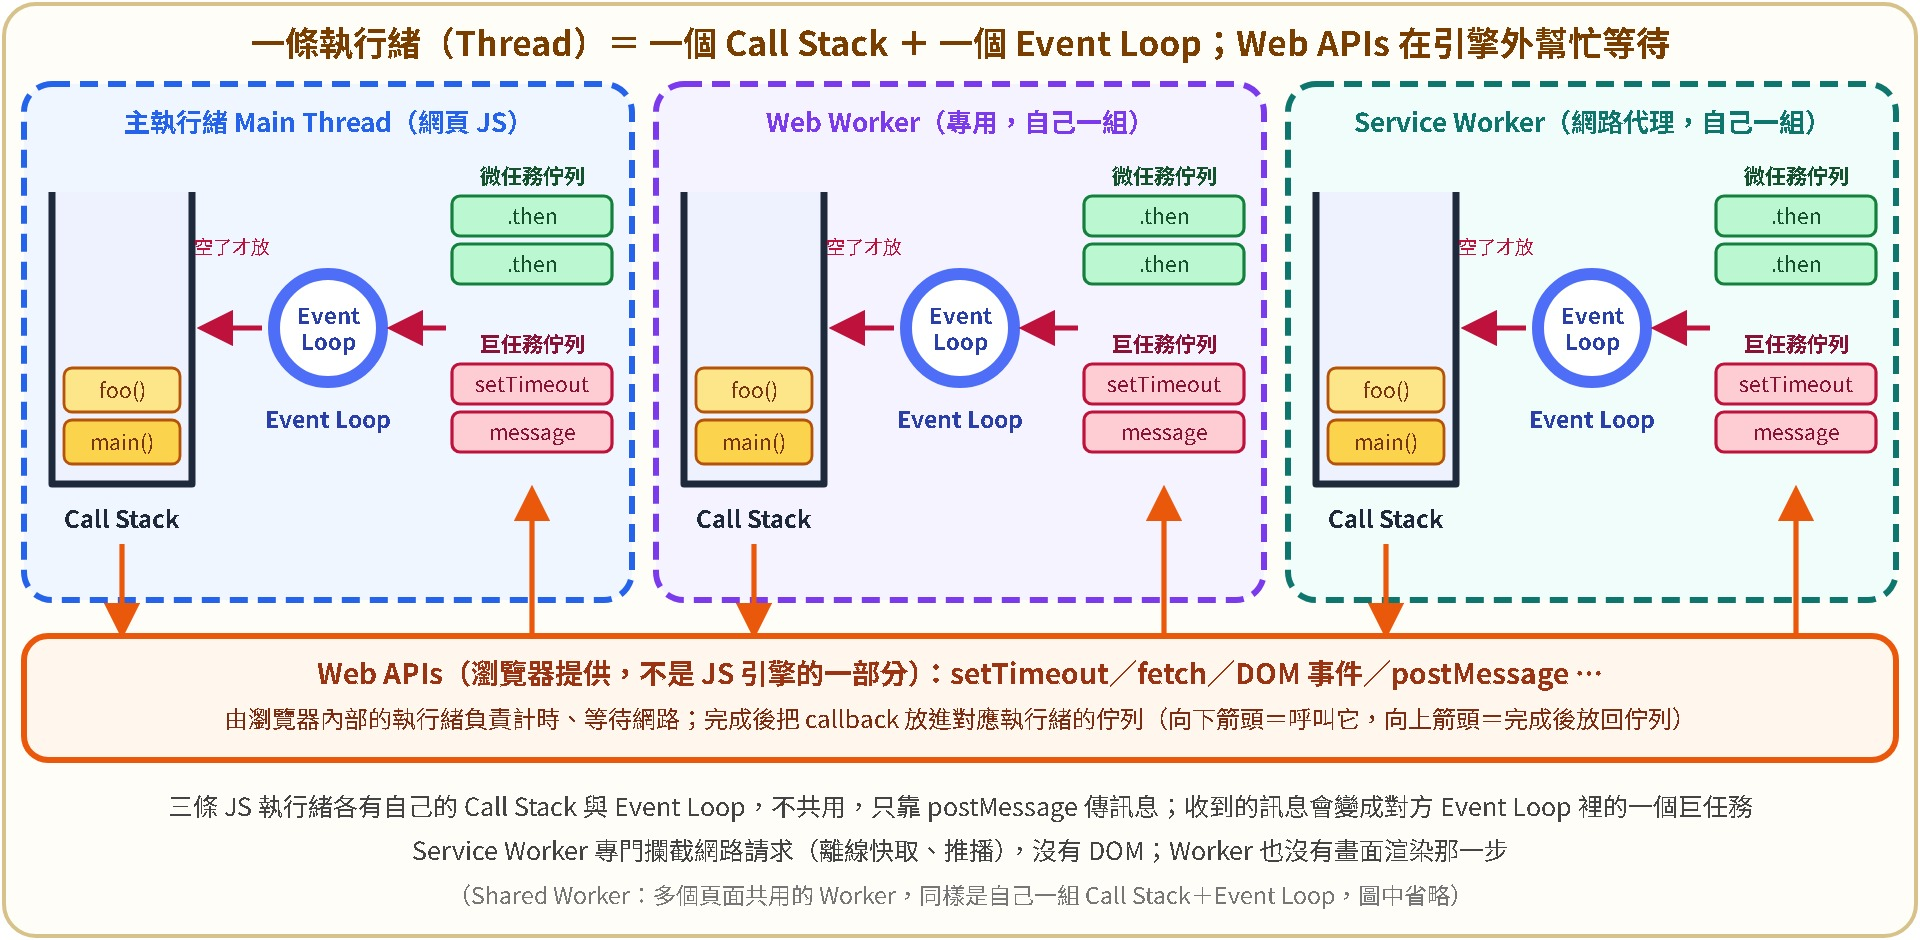
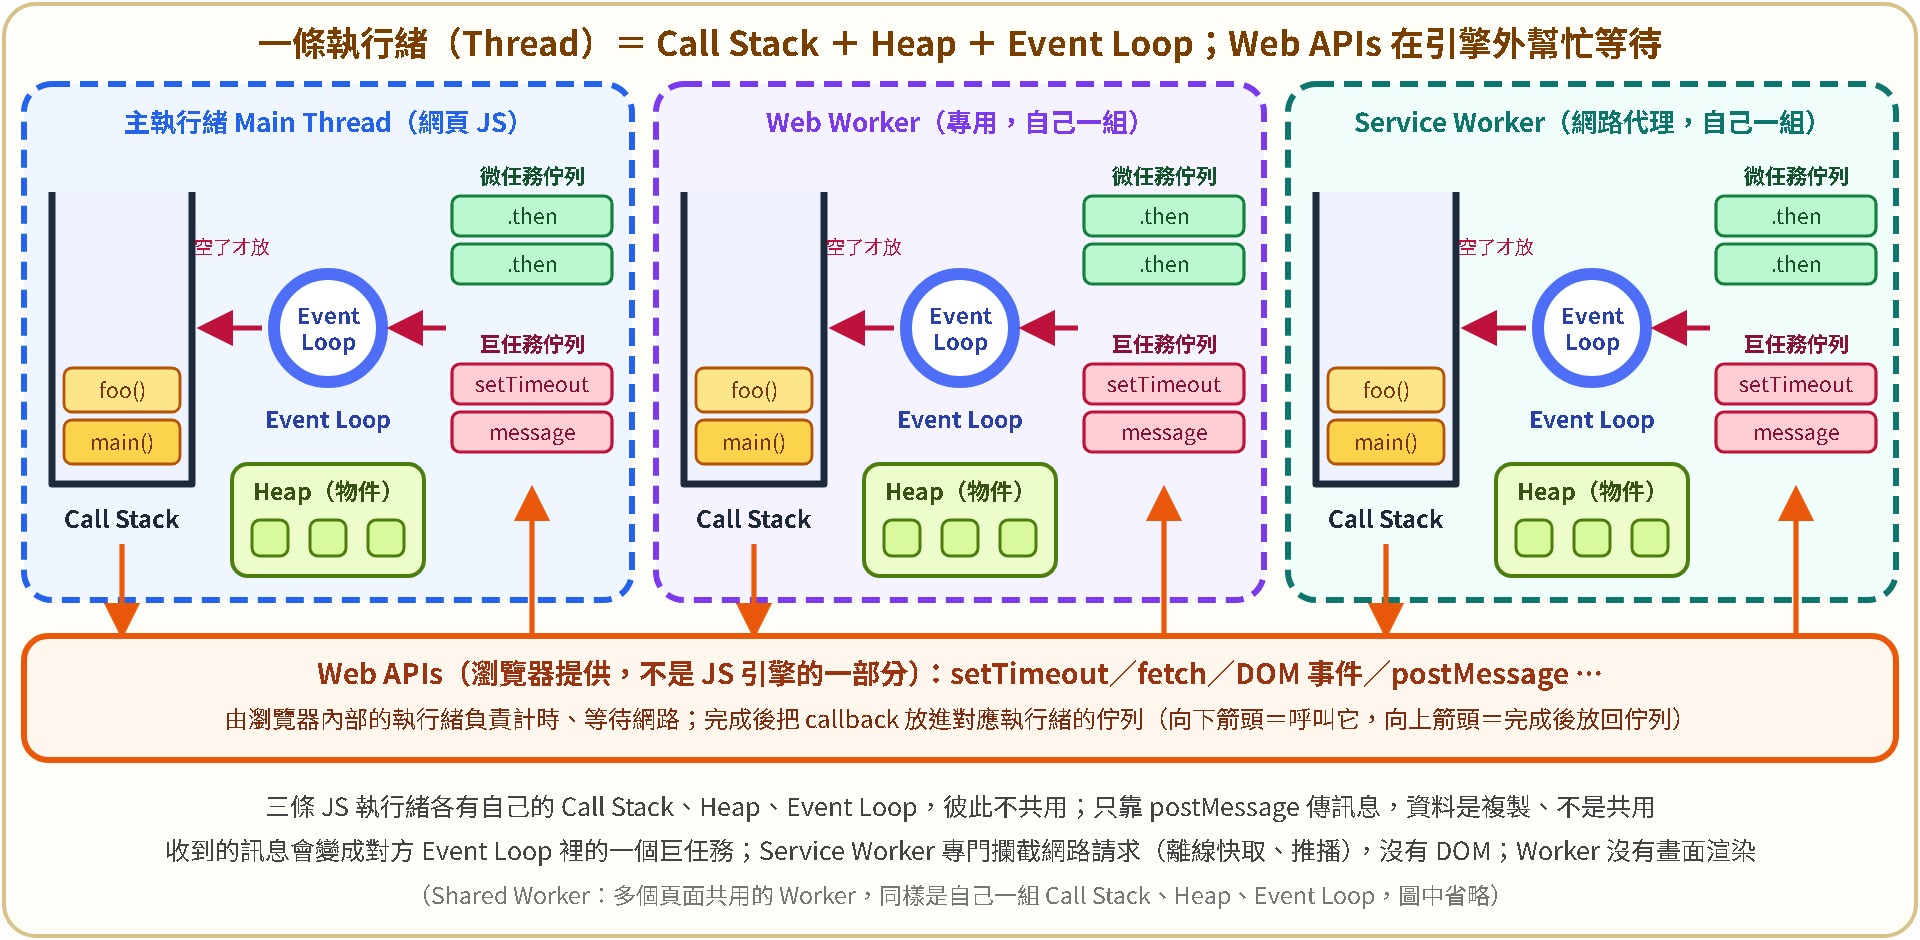
docs(notes): 執行緒圖補上每條執行緒各自的 Heap，並說明 postMessage 複製資料與 SharedArrayBuffer 例外

diff --git a/frontend-docs/javascript/JS_Core_and_Runtime/事件循環-Event-Loop-微任務與巨任務-互動版.html b/frontend-docs/javascript/JS_Core_and_Runtime/事件循環-Event-Loop-微任務與巨任務-互動版.html
@@ -161,7 +161,7 @@ eatBreakfast(); // 程式從這裡開始
 </tbody>
 </table>
 <p><img src="../../../obsidian-attachment/事件循環_一條執行緒含一個CallStack與一個EventLoop_2026-10-13.svg" alt="一條執行緒＝一個 Call Stack＋一個 Event Loop" style="max-width:100%;height:auto"></p>
-<p>主執行緒和 Worker 靠 <code>postMessage</code> 傳訊息：對方收到的訊息，會變成它自己 Event Loop 裡的一個巨任務。因為不共用 Call Stack，<mark style="background: #FFF3A3A6;">Worker 裡的死迴圈不會讓主執行緒的畫面凍結</mark>，這也是重運算丟給 Worker 的原因。上面「Web APIs（多執行緒）在旁邊幫忙等待」的那些執行緒不跑你的 JS，所以沒有 JS 的 Call Stack。</p>
+<p>主執行緒和 Worker 靠 <code>postMessage</code> 傳訊息：對方收到的訊息，會變成它自己 Event Loop 裡的一個巨任務。因為不共用 Call Stack，<mark style="background: #FFF3A3A6;">Worker 裡的死迴圈不會讓主執行緒的畫面凍結</mark>，這也是重運算丟給 Worker 的原因。每條執行緒（agent）也各有自己的 Heap（裝物件的記憶體），所以 <code>postMessage</code> 傳資料是複製、不是共用；例外是 <code>SharedArrayBuffer</code>：兩邊各有自己的物件，但背後那塊記憶體是同一塊（MDN Execution model）。上面「Web APIs（多執行緒）在旁邊幫忙等待」的那些執行緒不跑你的 JS，所以沒有 JS 的 Call Stack。</p>
 <p>Worker 有三種：<mark style="background: #ADCCFFA6;">Dedicated Worker</mark>（只給建立它的腳本用，一般說的 Web Worker）、<mark style="background: #ADCCFFA6;">Shared Worker</mark>（多個頁面或 Worker 共用）、<mark style="background: #ADCCFFA6;">Service Worker</mark>（網路代理：攔截請求、離線快取、推播）。依 HTML 規格，三種各是自己的 agent，各有一個 worker event loop，也都沒有 DOM。Node.js 的 <code>worker_threads</code> 官方文件稱它是「獨立的 JavaScript 執行緒」，但沒有逐字寫「各有自己的 Event Loop」，本篇不下結論。官方出處見 <code>.md</code> 版文末「資料來源」。</p>
 <p>C++、Java 這類語言習慣直接開多條執行緒（Python、Go、Rust、C# 也都支援，不是只有它們）：多條執行緒共用同一塊記憶體，能在多核心 CPU 上真的同時跑，CPU 密集的計算通常因此變快；代價是<mark style="background: #FF5582A6;">死結（Deadlock）與競爭條件（Race Condition：多條執行緒同時改同一份資料而衝突）</mark>，要靠鎖（lock／mutex）自己小心管理。JS 主執行緒反過來：一次只有一個 Call Stack 在動資料，不會兩邊同時改，換來的是「同步運算太久就卡住所有事」。</p>
 <table>

diff --git a/frontend-docs/javascript/JS_Core_and_Runtime/事件循環-Event-Loop-微任務與巨任務.md b/frontend-docs/javascript/JS_Core_and_Runtime/事件循環-Event-Loop-微任務與巨任務.md
@@ -204,7 +204,7 @@ eatBreakfast(); // 程式從這裡開始
 
 ![一條執行緒＝一個 Call Stack＋一個 Event Loop；多一條執行緒就多一組，彼此只靠 postMessage 傳訊息](../../../obsidian-attachment/事件循環_一條執行緒含一個CallStack與一個EventLoop_2026-10-13.svg)
 
-主執行緒和 Worker 靠 `postMessage` 傳訊息：對方收到的訊息，會變成它自己 Event Loop 裡的一個巨任務。因為不共用 Call Stack，<mark style="background: #FFF3A3A6;">Worker 裡的死迴圈不會讓主執行緒的畫面凍結</mark>，這也是重運算丟給 Worker 的原因。上面「Web APIs（多執行緒）在旁邊幫忙等待」的那些執行緒不跑你的 JS，所以沒有 JS 的 Call Stack。
+主執行緒和 Worker 靠 `postMessage` 傳訊息：對方收到的訊息，會變成它自己 Event Loop 裡的一個巨任務。因為不共用 Call Stack，<mark style="background: #FFF3A3A6;">Worker 裡的死迴圈不會讓主執行緒的畫面凍結</mark>，這也是重運算丟給 Worker 的原因。每條執行緒（agent）也各有自己的 Heap（裝物件的記憶體），所以 `postMessage` 傳資料是複製、不是共用；例外是 `SharedArrayBuffer`：兩邊各有自己的物件，但背後那塊記憶體是同一塊（MDN Execution model）。上面「Web APIs（多執行緒）在旁邊幫忙等待」的那些執行緒不跑你的 JS，所以沒有 JS 的 Call Stack。
 
 Worker 有三種：<mark style="background: #ADCCFFA6;">Dedicated Worker</mark>（只給建立它的腳本用，一般說的 Web Worker）、<mark style="background: #ADCCFFA6;">Shared Worker</mark>（多個頁面或 Worker 共用）、<mark style="background: #ADCCFFA6;">Service Worker</mark>（網路代理：攔截請求、離線快取、推播）。依 HTML 規格，三種各是自己的 agent，各有一個 worker event loop，也都沒有 DOM。順帶一提，規格說的是「agent」：同一個 agent 可以包含主文件和它的同源 iframe，所以主執行緒的 event loop 可能被同源 iframe 共用。Node.js 的 `worker_threads` 官方文件稱它是「獨立的 JavaScript 執行緒」，但沒有逐字寫「各有自己的 Event Loop」，本篇不下結論。
 
